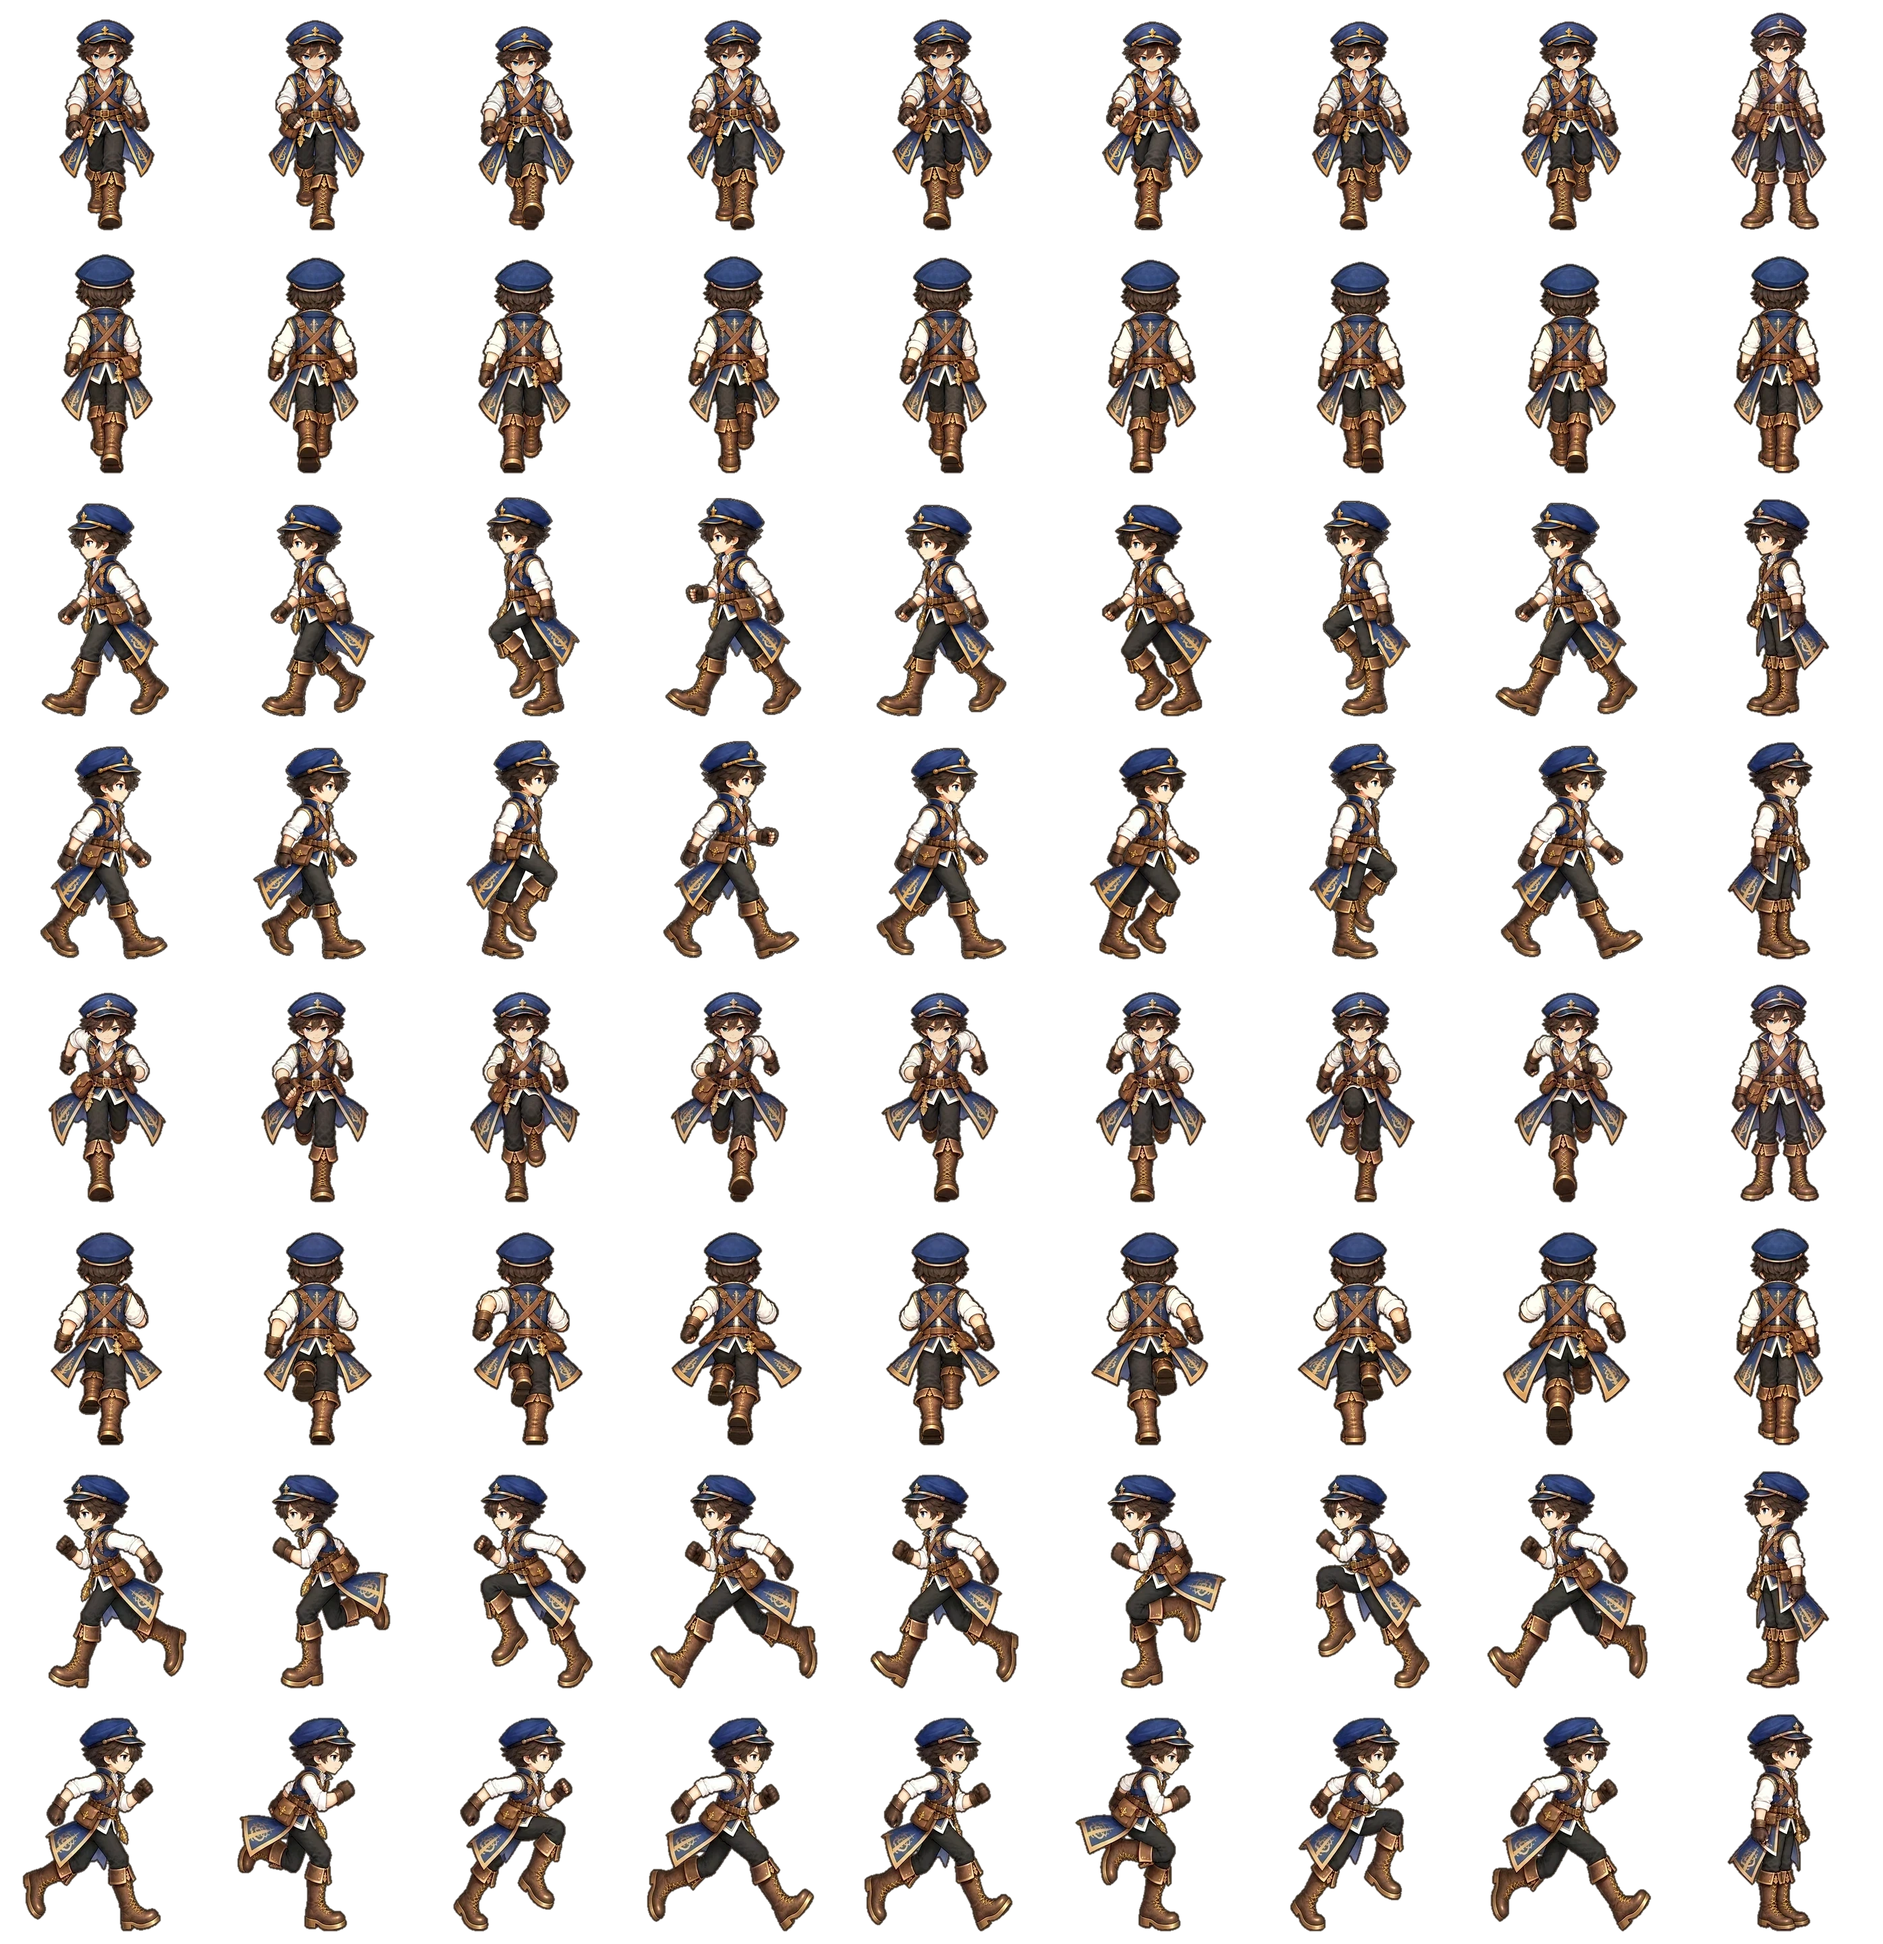
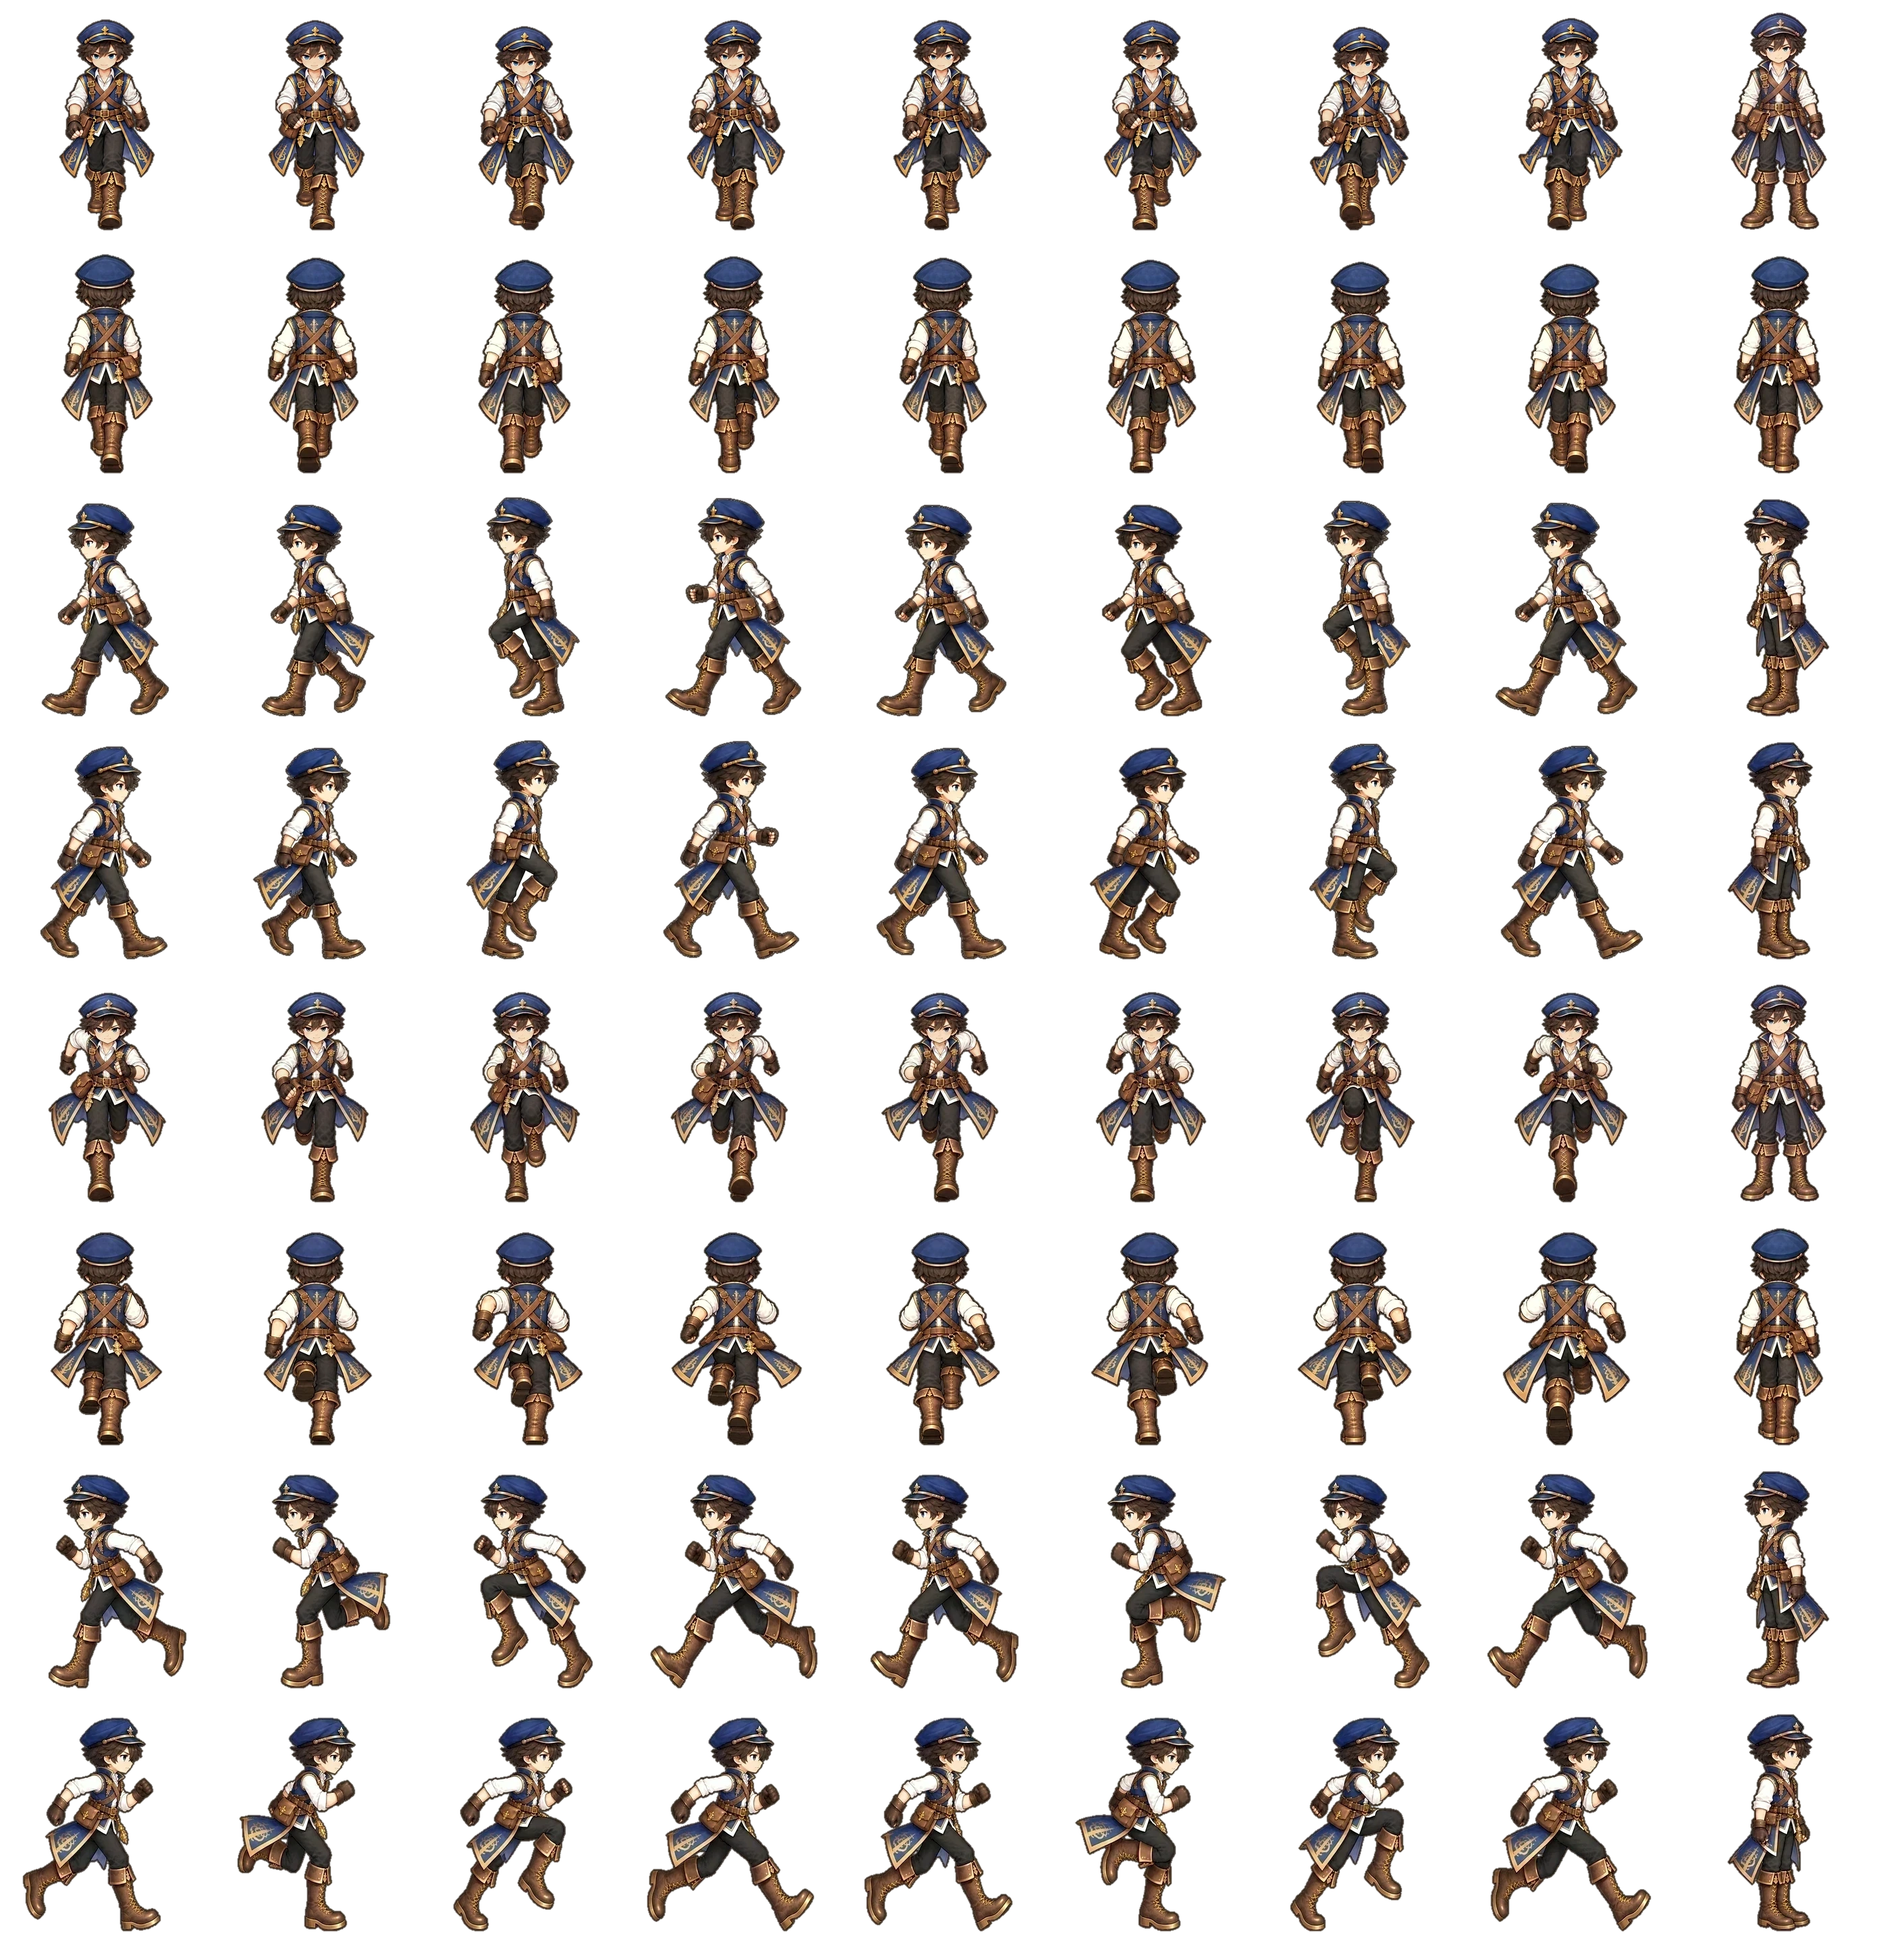
男性主人公の正面の歩き：反対の足の1歩を、上の段の腰から下を左右反転して作る（8コマすべて違う絵に）
Claude-Session: https://claude.ai/code/session_01R3L2GTo7iNgRy29W4Nqkkf

diff --git a/tools/art/front_flip_walk.py b/tools/art/front_flip_walk.py
@@ -1,0 +1,71 @@
+# -*- coding: utf-8 -*-
+"""正面の歩きの「反対の足の1歩」を、腰から下だけ左右反転して作る（2026-10-25）
+
+画像AIに「下の段だけ足を入れ替えて」と2回頼んでも、6・8 が上の段と同じ足のままだった。正面の人物は、腰から下（ズボン・ブーツ・コートのすそ）は
+ほぼ左右対称なので、上の段の4コマを腰から下だけ左右反転すれば、前に出る足が逆の4コマになる。かばん・鎖の飾り・顔・腕は元の絵のまま。
+前の試み（tools/art/leg_swap.py の swap_front：コートのすそより下だけを反転）はコートの途中に継ぎ目が出たので、切る位置を腰（かばんの下）にした。
+
+届いた絵（4列×2段）の上の段 1〜4 から、上の段＝そのまま、下の段＝腰から下を反転、の 4列×2段の1枚を作る。
+それを tools/art/unified_build.py でシートの行0に入れる。
+
+使い方:
+  python3 tools/art/front_flip_walk.py 届いた絵.png 出力.png [--cut 0.60] [--check 確認.png]
+"""
+import sys
+from pathlib import Path
+
+import numpy as np
+from PIL import Image
+from scipy import ndimage
+
+sys.path.insert(0, str(Path(__file__).parent))
+from unified_build import crop, load_poses  # noqa: E402
+
+BLEND = 12  # 境目で色を混ぜる幅（px・届いた絵の大きさで）
+
+
+def flip_lower(p: Image.Image, cut: float) -> Image.Image:
+    """人物の上から cut より下を、体（上から 20〜50%）の横の真ん中で左右反転する"""
+    c = np.array(crop(p)).astype(np.float32)
+    h, w = c.shape[:2]
+    a = c[..., 3] > 128
+    cx = float(np.nonzero(a[int(h * 0.2): int(h * 0.5)])[1].mean())
+    width = int(2 * max(cx, w - cx)) + 4
+    off = int(round(width / 2 - cx))
+    base = np.zeros((h, width, 4), np.float32)
+    base[:, off:off + w] = c
+    flip = base[:, ::-1]
+    y = int(h * cut)
+    t = np.clip((np.arange(h) - (y - BLEND / 2)) / BLEND, 0, 1)[:, None, None]
+    out = base * (1 - t) + flip * t
+    # 不透明度：境目より上は元の絵、下は反転した絵（混ぜると、どちらか一方にしかない所に薄いかけらが残る）
+    out[..., 3] = np.where(np.arange(h)[:, None] < y, base[..., 3], flip[..., 3])
+    # 人物から離れた小さなかけら（コートのふちの形が左右で少し違う所）を消す
+    solid = out[..., 3] > 40
+    lab, n = ndimage.label(solid)
+    if n > 1:
+        sizes = ndimage.sum(solid, lab, range(1, n + 1))
+        keep = lab == int(np.argmax(sizes)) + 1
+        out[..., 3] = np.where(ndimage.binary_dilation(keep, iterations=1), out[..., 3], 0)
+    return Image.fromarray(np.clip(out, 0, 255).astype(np.uint8))
+
+
+def main(args: list[str]) -> None:
+    src, dst = args[0], args[1]
+    cut = float(args[args.index('--cut') + 1]) if '--cut' in args else 0.60
+    poses, _ = load_poses(src, 4)
+    top = [crop(p) for p in poses[:4]]
+    frames = top + [flip_lower(p, cut) for p in poses[:4]]
+    canvas = Image.new('RGBA', (1536, 1024), (0, 0, 0, 0))
+    for i, f in enumerate(frames):
+        canvas.alpha_composite(f, ((i % 4) * 384 + (384 - f.width) // 2, (i // 4) * 512 + 500 - f.height))
+    canvas.save(dst)
+    print('書き出し:', dst)
+    if '--check' in args:
+        bg = Image.new('RGBA', canvas.size, (70, 50, 35, 255))
+        bg.alpha_composite(canvas)
+        bg.save(args[args.index('--check') + 1])
+
+
+if __name__ == '__main__':
+    main(sys.argv[1:])
